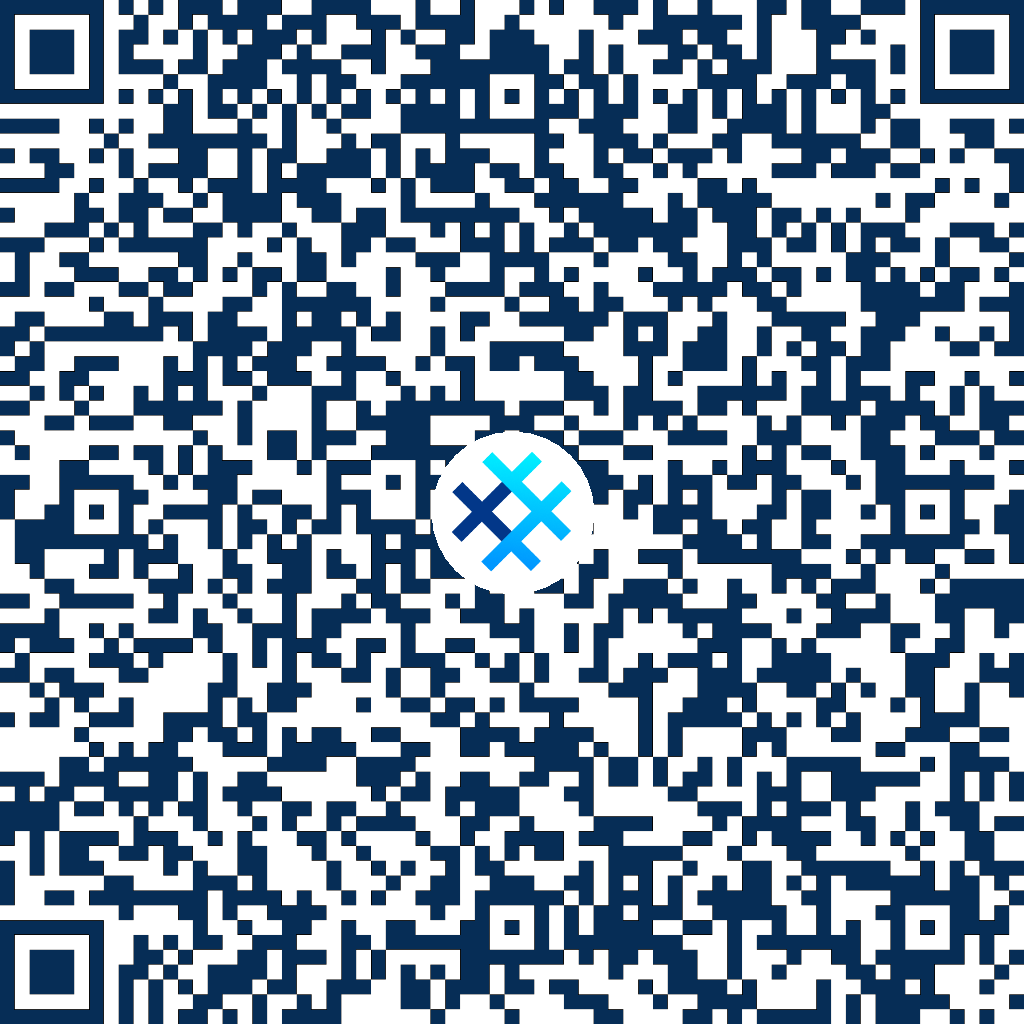
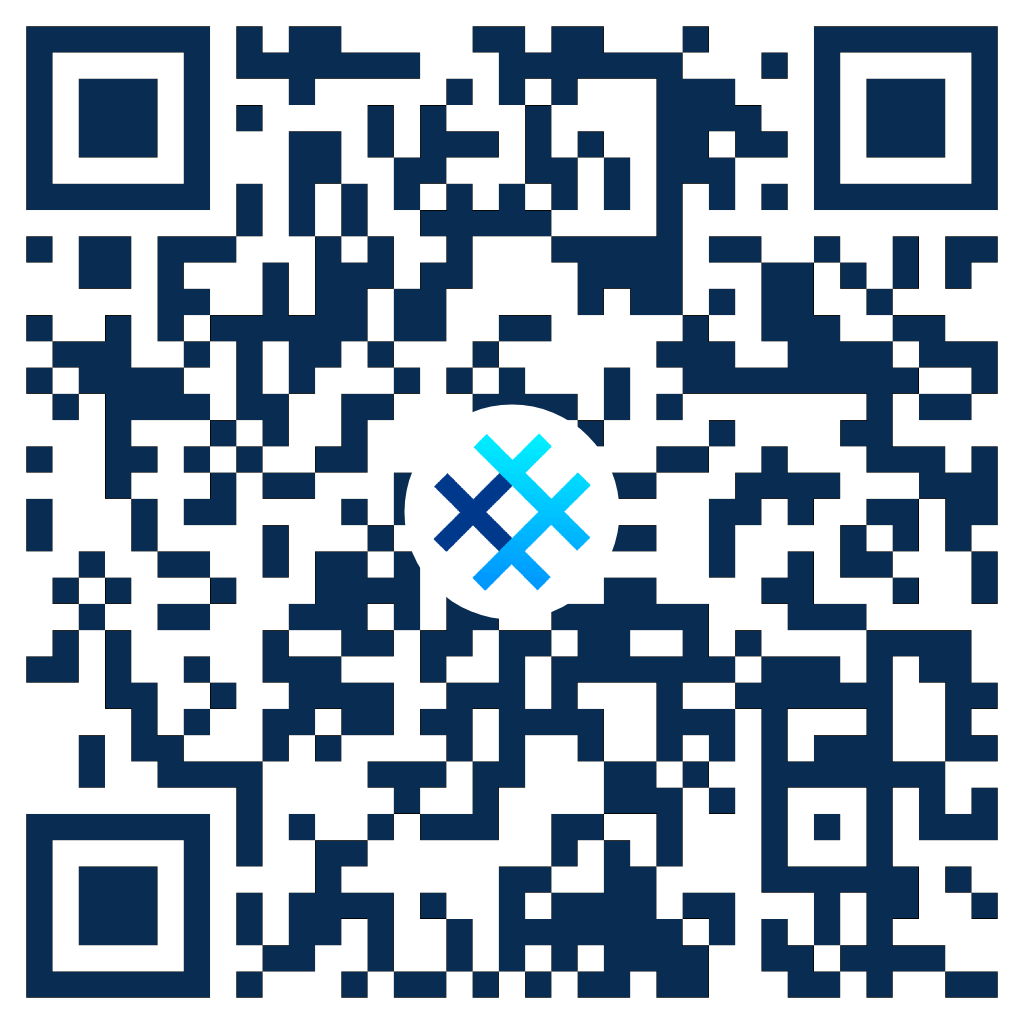
Add new SimpleX group link

diff --git a/contact.html b/contact.html
@@ -29,7 +29,7 @@
 		</section>
 		<section>
 			<h2>SimpleX group</h2>
-			<a href="https://simplex.chat/contact#/?v=2-7&smp=smp%3A%2F%2FenEkec4hlR3UtKx2NMpOUK_K4ZuDxjWBO1d9Y4YXVaA%3D%40smp14.simplex.im%2FsxkCG72_anPOdC2-QEa-WTd2xl1RQLAO%23%2F%3Fv%3D1-3%26dh%3DMCowBQYDK2VuAyEAkBce22yf51_D2pH2er8NoKKhk1hpIDKzAQxx2XLu4mE%253D%26srv%3Daspkyu2sopsnizbyfabtsicikr2s4r3ti35jogbcekhm3fsoeyjvgrid.onion&data=%7B%22groupLinkId%22%3A%22px4WAS7Y6jl_GikZNoOvPA%3D%3D%22%7D"
+			<a href="https://smp9.simplex.im/g#3VFA09OoCs4GaCcEmNppbp_nDrxeFp9u-kfy7aa15H0"
 				target="_blank" rel="noopener noreferrer">
 				<img src="./images/simplex.png" alt="QR Code" width="500" height="500">
 			</a>
